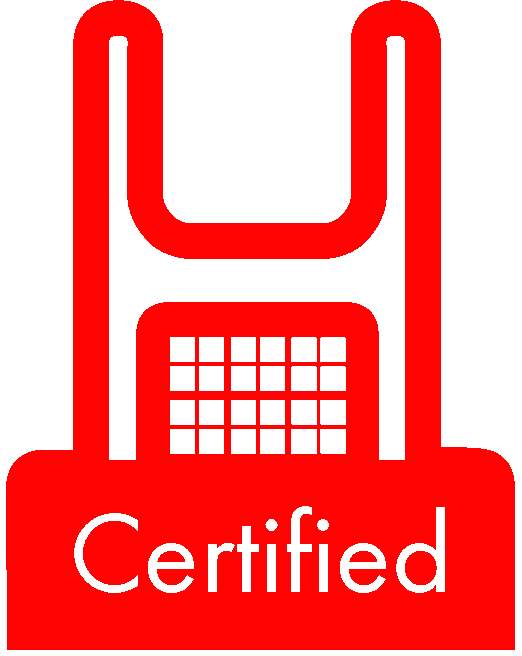
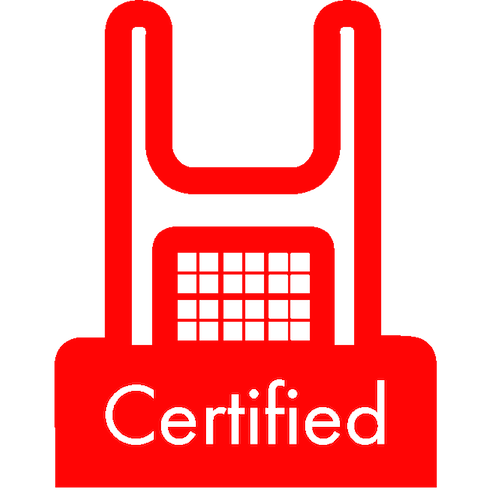
separate page for profile preview when logged in (or not)

diff --git a/src/main/scala/hatdex/hat/views/authenticated.scala.html b/src/main/scala/hatdex/hat/views/authenticated.scala.html
@@ -10,7 +10,7 @@
     </div>
 
     <div class="row text-center">
-        <div class="col-sm-@((12 - services.length * 4)/2) col-md-@((12 - services.length * 2)/2)">&nbsp;</div>
+        <div class="col-sm-@((12 - (services.length+1) * 4)/2) col-md-@((12 - (services.length + 1) * 2)/2)">&nbsp;</div>
         @services.map { case service =>
         <a href="@service.url@service.authUrl">
             <div class="col-xs-6 col-sm-4 col-md-2">
@@ -19,10 +19,22 @@
                     <div class="caption">
                         <h3>@service.title</h3>
                         <p>@service.description</p>
-        </div>
-        </div>
-        </div>
+                    </div>
+                </div>
+            </div>
         </a>
         }
+
+        <a href="/profile">
+            <div class="col-xs-6 col-sm-4 col-md-2">
+                <div class="thumbnail">
+                    <img src="/assets/images/certified.png" alt="HAT Profile" class="img img-responsive img-rounded profile-img" />
+                    <div class="caption">
+                        <h3>HAT Profile</h3>
+                        <p></p>
+                    </div>
+                </div>
+            </div>
+        </a>
     </div>
 }
